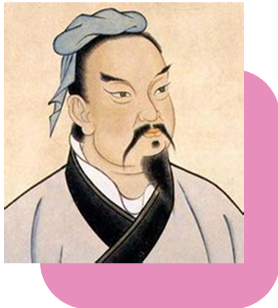
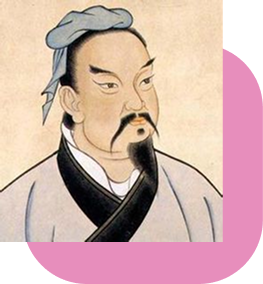
update funfact

diff --git a/component/LandingPage/FunFact.tsx b/component/LandingPage/FunFact.tsx
@@ -1,7 +1,7 @@
 'use client'
 import { Images } from '@/assets/png'
 import { Leaf, Leaf2 } from '@/assets/svg'
-import { motion, useMotionValueEvent, useTransform } from 'motion/react'
+import { motion, useMotionValueEvent, useSpring, useTransform } from 'motion/react'
 import { useScroll } from 'motion/react'
 import Image from 'next/image'
 import React, { useRef } from 'react'
@@ -11,8 +11,19 @@ const FunFact = () => {
   const pageRef = useRef(null)
   const { scrollYProgress} = useScroll({
     target: pageRef,
-    offset: ['start end', 'end end']
+    offset: ['start start', 'end end']
   })
+
+  const { scrollYProgress: backgroundColorProgress} = useScroll({
+    target: pageRef,
+    offset: ['start start', 'end end']
+  })
+
+  const expressiveSpatial = {
+    stiffness: 170,  
+    damping: 25,    
+    mass: 0.8,  
+  };
 
   useMotionValueEvent(scrollYProgress, 'change', (latest) => {
     console.log('scrollYProgress for fun fact', latest)
@@ -25,10 +36,11 @@ const FunFact = () => {
     ref={pageRef}
     >
       <motion.div 
-      className='h-screen bg-[#faeadc] rounded-t-[16px] sticky top-0 flex flex-col items-center space-y-16 justify-center  px-4'
+      className='h-screen bg-brand-black sticky top-0 flex flex-col items-center space-y-16 justify-center  px-4'
       style={{
-        borderTopLeftRadius: useTransform(scrollYProgress, [0, 0.1, 0.2, 0.3, 0.6], [72, 24, 24, 16,  0]),
-        borderTopRightRadius: useTransform(scrollYProgress, [0, 0.1, 0.2, 0.3, 0.6 ], [72, 24, 24, 16, 0]),
+        // borderTopLeftRadius: useTransform(scrollYProgress, [0, 0.1, 0.2, 0.3, 0.6], [72, 24, 24, 16,  0]),
+        // borderTopRightRadius: useTransform(scrollYProgress, [0, 0.1, 0.2, 0.3, 0.6 ], [72, 24, 24, 16, 0]),
+        background: useTransform(backgroundColorProgress, [0, 0.1111], ['#141414', '#faeadc'])
         
         
       }}
@@ -40,10 +52,10 @@ const FunFact = () => {
             ease: 'backIn'
           }}
           style={{
-            y: useTransform(scrollYProgress, [0, 1], [50, 400]),
-            x: useTransform(scrollYProgress, [0.20, 0.4 ], [0, 23]),
-            rotate: useTransform(scrollYProgress, [0, 0.2, 0.5, 0.67], [0, -30, 50, 30]),
-            opacity: useTransform(scrollYProgress, [0.55, 0.57], [1, 0]),
+            y: useSpring(useTransform(backgroundColorProgress, [0, 0.3], [0, 300]), expressiveSpatial),
+            x: useSpring(useTransform(backgroundColorProgress, [0, 0.3 ], [0, 23]), expressiveSpatial),
+            rotate: useTransform(backgroundColorProgress, [0, 0.2, 0.3,], [0, -180, -backgroundColorProgress]),
+            opacity: useSpring(useTransform(backgroundColorProgress, [0.331, 0.4], [1, 0]), expressiveSpatial),
             
           }}
         >
@@ -53,12 +65,13 @@ const FunFact = () => {
         <motion.div 
         className='text-xs flex flex-col items-center'
         style={{
-          opacity: useTransform(scrollYProgress, [0.72, 0.75], [0, 1])
+          // opacity: useTransform(scrollYProgress, [0.72, 0.75], [0, 1]),
+          color: useTransform(scrollYProgress, [0, 0.1111], ['#fdf9f0', '#141414'])
         }}
         
         >
           <p className='font-bold'>Here's a fun fact:</p>
-          <p>I close that gap. We "do" a lot of action here.</p>
+          <p>We build a lot here.</p>
         </motion.div>
 
         <div className="relative ">
@@ -78,7 +91,7 @@ const FunFact = () => {
             }}
           >
             <p className="text-center font-champBlack text-3xl">
-              The greatest gap is not between ignorance and knowledge, but between knowledge and action.
+            Code changes nothing until it runs; ideas changes nothing until it’s built.
             </p>
           </motion.div>
 
@@ -87,10 +100,14 @@ const FunFact = () => {
 
 
         <div className='flex items-center gap-x-6 self-end'>
-          <div>
+          <motion.div
+            style={{
+              color: useTransform(backgroundColorProgress, [0, 0.11], ['#fdf9f0', '#141414'])
+            }}
+          >
             <p className='text-xs font-semibold'>Sun Tzu</p>
             <p className='text-xs'>The Author of the  Art<br/> of War</p>
-          </div>
+          </motion.div>
           <Image 
             src={Images.Suntzu}
             width={48}
